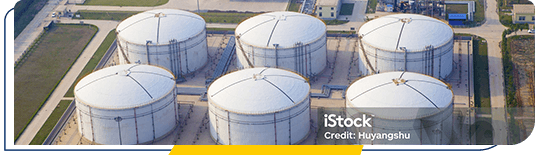
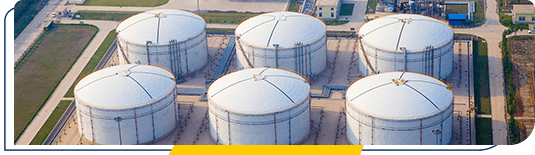
changes

diff --git a/app/green-initiative/page.js b/app/green-initiative/page.js
@@ -73,7 +73,7 @@ export default function GreenInitiatives() {
               <div class="col-lg-6 col-md-12 col-sm-12 order-lg-1 image-column">
                 <div class="image-box pl-3">
                   <figure class="image">
-                    <img src="/assets/images/kprmill-images/CSR/Green-Initiatives/green-1.jpg" alt="" />
+                    <img src="/assets/images/kprmill-images/CSR/Green-Initiatives/green-1.png" alt="" />
                   </figure>
                 </div>
               </div>
